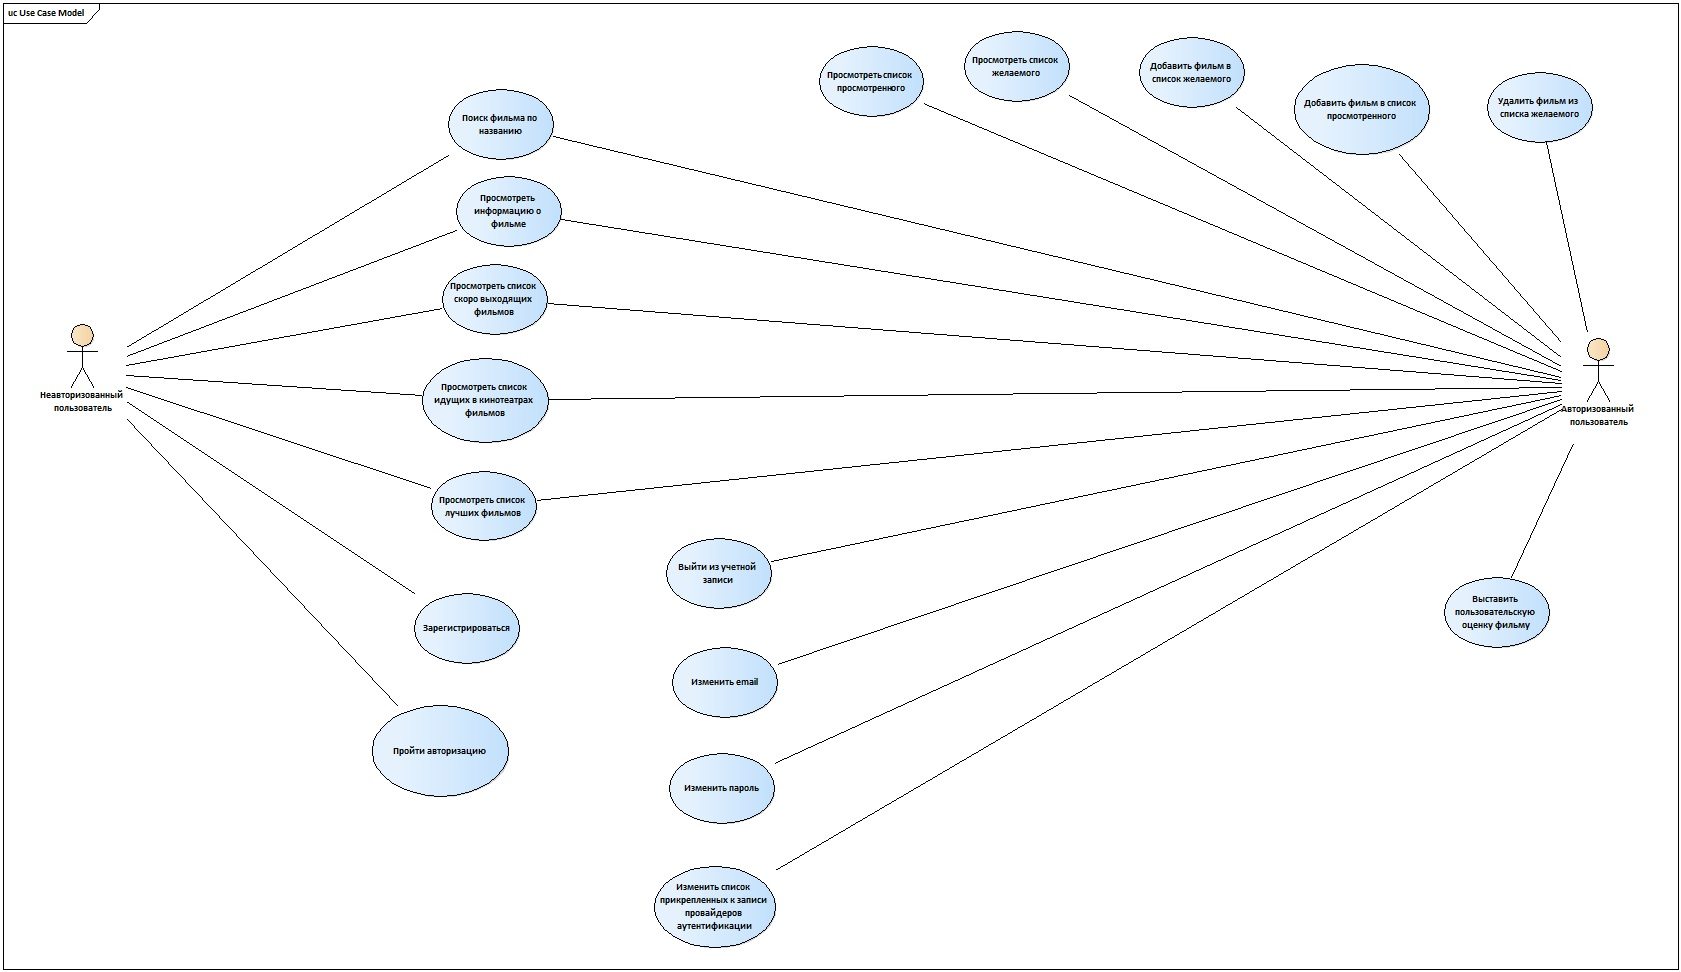
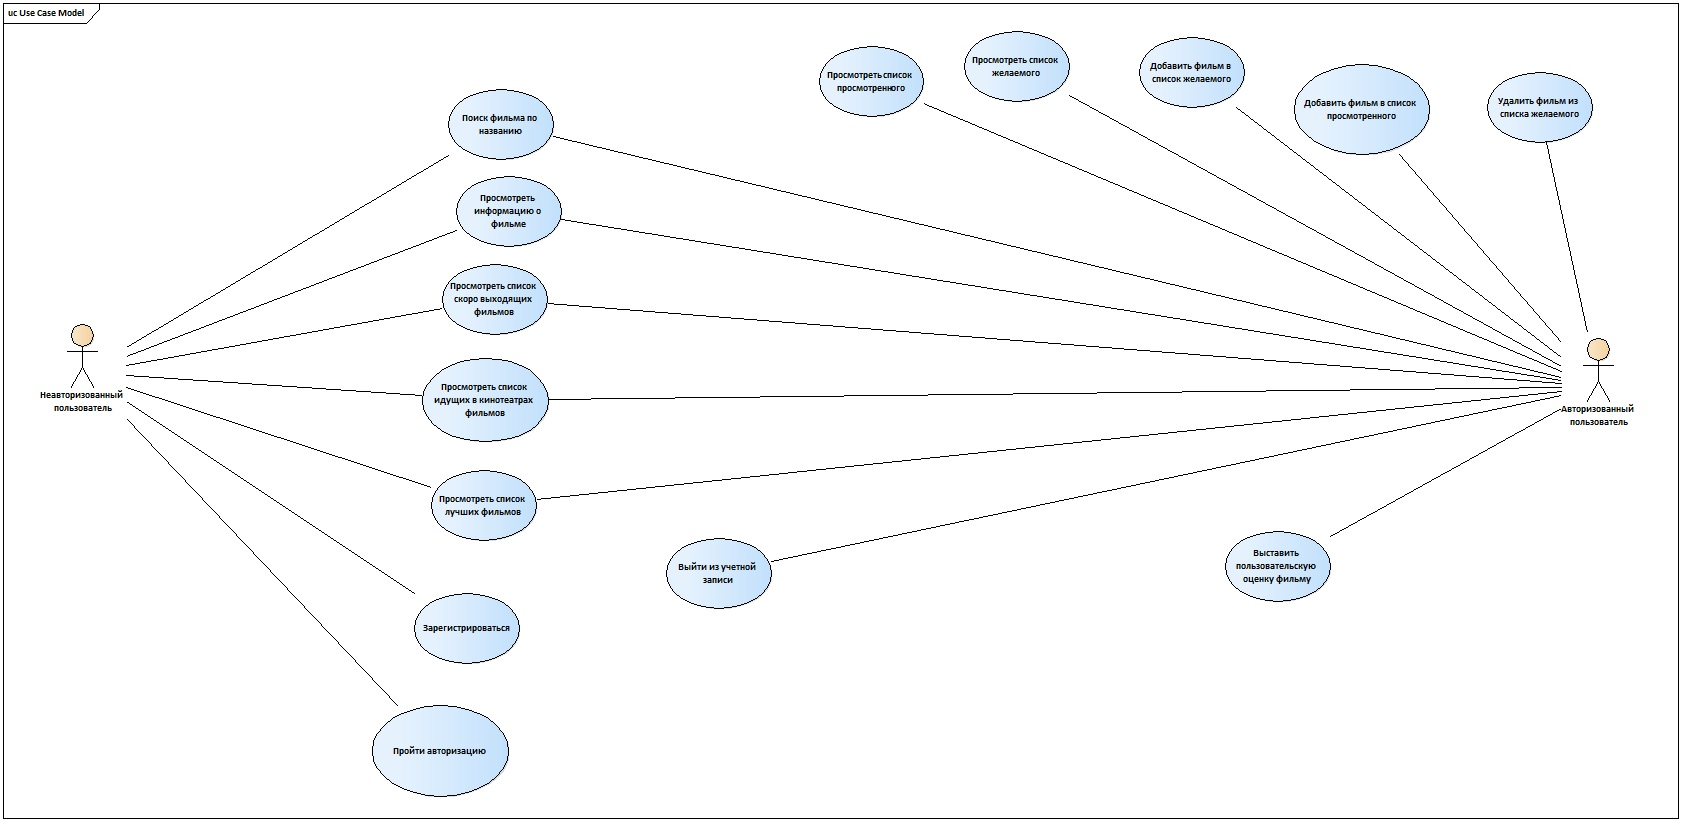
We don't need profile management in such app

diff --git a/SRS.md b/SRS.md
@@ -24,10 +24,6 @@
 
 ![](https://github.com/Dhoine/MyFilms/blob/master/Mockups/Registration.png?raw=true)
 
-Управление учетной записью:
-
-![](https://github.com/Dhoine/MyFilms/blob/master/Mockups/Account%20manager.png?raw=true)
-
 Топ фильмов:
 
 ![](https://github.com/Dhoine/MyFilms/blob/master/Mockups/Top%20movies.png?raw=true)
@@ -61,7 +57,6 @@
 * Отображение списка лучших фильмов (Top Rated Movies) по данным сервиса IMDb с возможностью выбора по жанрам.
 * Возможность регистрации пользователя.
 * Возможность авторизации пользователя через регистрационные данные (электронная почта, пароль) или социальные сети (Facebook, Twitter, VK).
-* Возможность управления учетной записью: изменение имени пользователя, электронной почты, пароля, добавления внешних сервисов аутентификации (ранее перечисленные социальные сети).
 * Отображение списка фильмов, добавленных пользователем в список желаемых к просмотру. Присутствует возможность выбора по жанрам, удаления фильма из списка. Доступно только авторизованным пользователям.
 * Отображение списока фильмов, которые пользователь добавил в свой список просмотренного. Присутствует возможность оценки фильмов и выбора по жанрам. Доступно только авторизованным пользователям.
 * Возможность добавить любой фильм в список желаемого или просмотренного, если он в них еще не находится.
